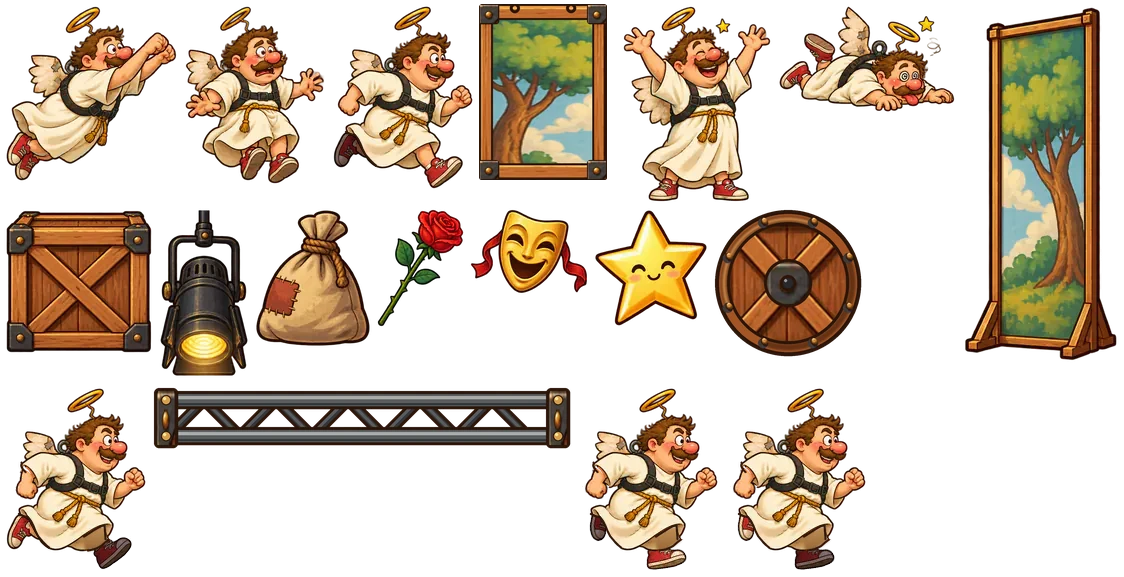
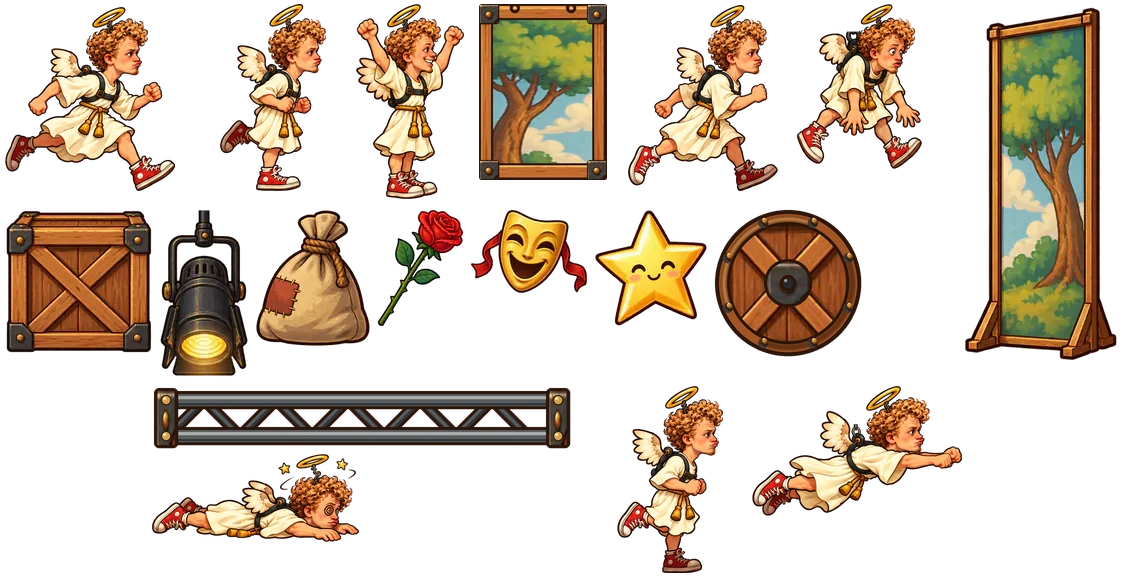
Turn the stage runner angel into Engel Logge

diff --git a/test/stage_runner_test.dart b/test/stage_runner_test.dart
@@ -103,8 +103,8 @@ int _serverMax(double seconds) =>
 /// be at their worst (a sandbag landed, a drop at its lowest).
 void _pilotStep(StageRunner game) {
   const f = StageRunner.floor, c = StageRunner.ceiling;
-  const hw = StageRunner.runnerWidth * .4 + .01;
-  const hh = StageRunner.runnerHeight * .42 + .015;
+  const hw = StageRunner.hitHalfWidth + .01;
+  const hh = StageRunner.hitHalfHeight + .015;
   const minY = c + StageRunner.runnerHeight / 2;
   const maxY = f - StageRunner.runnerHeight / 2;
   final x = game.runnerWorldX;
@@ -198,6 +198,28 @@ void main() {
         game.update(.02);
       }
       expect(game.vy >= 0 || game.over, isTrue);
+    });
+
+    test('the hitbox is a little smaller than the slim body', () {
+      // Wings, arms, head and shoes may graze an obstacle.
+      expect(StageRunner.hitHalfWidth * 2, lessThan(StageRunner.runnerWidth));
+      expect(StageRunner.hitHalfHeight * 2, lessThan(StageRunner.runnerHeight));
+      // A crate just ahead of the box, then just inside its front edge.
+      for (final (gap, crashes) in [(.002, false), (-.002, true)]) {
+        final game = StageRunner(random: Random(1))..update(1e-4);
+        game.obstacles.clear();
+        final left = game.runnerWorldX + StageRunner.hitHalfWidth + gap;
+        game.obstacles.add(
+          Obstacle()
+            ..kind = ObstacleKind.crate
+            ..left = left
+            ..width = .09
+            ..top = StageRunner.floor - .09
+            ..bottom = StageRunner.floor,
+        );
+        game.update(1e-4);
+        expect(game.over, crashes, reason: 'gap $gap');
+      }
     });
 
     test('doing nothing ends the run soon; long frames never skip', () {
@@ -916,10 +938,33 @@ void main() {
         return (brightX / bright, darkX / dark);
       }
 
+      // Mean position of the golden halo at the top of a pose.
+      (double, double) halo(RunnerSprite s) {
+        var sumX = 0, sumY = 0, count = 0;
+        for (var y = 0; y < 30; y++) {
+          for (var x = 0; x < s.width; x++) {
+            final i = at(s, x, y);
+            final r = bytes.getUint8(i), g = bytes.getUint8(i + 1);
+            final b = bytes.getUint8(i + 2), alpha = bytes.getUint8(i + 3);
+            if (alpha > 200 && r > 180 && g > 130 && b < 90) {
+              sumX += x;
+              sumY += y;
+              count++;
+            }
+          }
+        }
+        expect(count, greaterThan(50), reason: '$s has a halo');
+        return (sumX / count, sumY / count);
+      }
+
+      final (haloX, haloY) = halo(a);
       for (final pose in RunnerSprite.strides) {
-        // Same size and the same head, so the runner does not jump.
+        // Same size and the head in the same place, so the runner does not
+        // jump.
         expect((pose.width, pose.height), (a.width, a.height));
-        expect(difference(pose, 0, .4), lessThan(10), reason: '$pose');
+        final (x, y) = halo(pose);
+        expect((x - haloX).abs(), lessThan(3), reason: '$pose');
+        expect((y - haloY).abs(), lessThan(4), reason: '$pose');
       }
       expect(difference(RunnerSprite.runB, 2 / 3, 1), greaterThan(8));
       // The near shoe is in front in runA and behind in runB, the far shoe
@@ -930,6 +975,46 @@ void main() {
       expect(farB, greaterThan(nearB + 30));
       expect(nearA, greaterThan(nearB + 50));
       expect(farB, greaterThan(farA + 15));
+
+      // The wire meets the harness at the top of its ring, on the body.
+      for (final pose in [
+        ...RunnerSprite.strides,
+        RunnerSprite.fly,
+        RunnerSprite.dangle,
+        RunnerSprite.cheer,
+      ]) {
+        final h = pose.harness;
+        var opaque = 0;
+        for (var y = h.dy.round() - 3; y <= h.dy.round() + 3; y++) {
+          for (var x = h.dx.round() - 3; x <= h.dx.round() + 3; x++) {
+            if (bytes.getUint8(at(pose, x, y) + 3) > 128) opaque++;
+          }
+        }
+        expect(opaque, greaterThan(15), reason: '$pose');
+      }
+
+      // The hitbox, where the stage draws it on each pose: it lies on the
+      // body, and wings, arms, head and shoes stick out of it, so grazing
+      // them is no crash.
+      const px = RunnerSprite.stagePerPixel;
+      const hw = StageRunner.hitHalfWidth / px;
+      const hh = StageRunner.hitHalfHeight / px;
+      for (final pose in RunnerSprite.strides) {
+        // The stage puts the soles .006 below the bottom of the runner.
+        final cy = pose.height - (StageRunner.runnerHeight / 2 + .006) / px;
+        final cx = pose.width / 2;
+        var opaque = 0, count = 0;
+        for (var y = (cy - hh).round(); y < cy + hh; y++) {
+          for (var x = (cx - hw).round(); x < cx + hw; x++) {
+            if (bytes.getUint8(at(pose, x, y) + 3) > 128) opaque++;
+            count++;
+          }
+        }
+        expect(opaque / count, greaterThan(.65), reason: '$pose');
+        expect(2 * hw, lessThan(pose.width * .4), reason: '$pose');
+        expect(cy - hh, greaterThan(haloY + 30), reason: '$pose');
+        expect(cy + hh, lessThan(pose.height - 15), reason: '$pose');
+      }
     });
   });
 

diff --git a/lib/features/games/ui/stage_runner_art.dart b/lib/features/games/ui/stage_runner_art.dart
@@ -8,17 +8,18 @@ import '../domain/stage_runner.dart';
 
 /// Where each picture sits in `assets/games/stage_runner/atlas.webp`.
 enum RunnerSprite {
-  fly(4, 4, 175, 179),
-  dangle(183, 4, 144, 182),
+  // Engel Logge.
+  fly(752, 386, 210, 130),
+  dangle(797, 4, 125, 165),
   // The run, in this order: the near leg forward ([runA]), passing under
   // the body ([passA]), back while the far leg is forward ([runB]), and
   // the far leg passing ([passB]). The far leg is in the shade.
-  runA(331, 4, 144, 187),
-  passA(576, 386, 144, 187),
-  runB(4, 386, 144, 187),
-  passB(724, 386, 144, 187),
-  cheer(621, 4, 152, 200),
-  crash(777, 4, 180, 110),
+  runA(4, 4, 172, 187),
+  passA(180, 4, 172, 187),
+  runB(621, 4, 172, 187),
+  passB(576, 386, 172, 187),
+  cheer(356, 4, 108, 195),
+  crash(152, 454, 207, 88),
   crate(4, 208, 150, 147),
   lamp(158, 208, 92, 170),
   sandbag(254, 208, 118, 140),
@@ -34,6 +35,9 @@ enum RunnerSprite {
   final double x, y, width, height;
   ui.Rect get rect => ui.Rect.fromLTWH(x, y, width, height);
 
+  /// Stage heights per pixel of the runner's poses, all drawn alike.
+  static const stagePerPixel = .155 / 200;
+
   /// The poses of the run in order; a whole cycle covers two ninths of a
   /// unit, so the legs keep pace with the floor.
   static const strides = [runA, passA, runB, passB];
@@ -41,6 +45,16 @@ enum RunnerSprite {
   /// The pose of the run after running [distance].
   static RunnerSprite stride(double distance) =>
       strides[(distance * 18).floor() % strides.length];
+
+  /// Where the flying wire meets the harness, in pixels of the picture;
+  /// only for the poses of the runner.
+  ui.Offset get harness => switch (this) {
+    fly => const ui.Offset(106, 42),
+    dangle => const ui.Offset(54, 28),
+    cheer => const ui.Offset(44, 68),
+    runA => const ui.Offset(83, 66),
+    _ => const ui.Offset(91, 66),
+  };
 
   static RunnerSprite of(PickupKind kind) => switch (kind) {
     PickupKind.rose => rose,

diff --git a/lib/features/games/ui/stage_runner_screen.dart b/lib/features/games/ui/stage_runner_screen.dart
@@ -274,7 +274,7 @@ class _StageRunnerScreenState extends State<StageRunnerScreen>
         'Bühnenlauf',
         eyebrow: 'Hinter der Bühne',
         subtitle:
-            'Engel Ewald hängt zum ersten Mal am Flugseil – und die Technik hat die Bühne nicht aufgeräumt. Vorbei an Kisten, Kulissen, Scheinwerfern und Sandsäcken, immer schneller, bis der Vorhang fällt.',
+            'Engel Logge hängt zum ersten Mal am Flugseil – und die Technik hat die Bühne nicht aufgeräumt. Vorbei an Kisten, Kulissen, Scheinwerfern und Sandsäcken, immer schneller, bis der Vorhang fällt.',
       ),
       if (_art case final art?)
         Center(
@@ -1203,7 +1203,7 @@ class _StagePainter extends CustomPainter {
     }
   }
 
-  /// Engel Ewald: runs on the floor, flies with arms forward, dangles when
+  /// Engel Logge: runs on the floor, flies with arms forward, dangles when
   /// sinking, cheers at a pickup and crashes comically.
   void _runner(
     Canvas canvas,
@@ -1237,12 +1237,14 @@ class _StagePainter extends CustomPainter {
       sprite = g.vy < -.05 ? RunnerSprite.fly : RunnerSprite.dangle;
       angle = (g.vy * .12).clamp(-.2, .2).toDouble();
     }
-    // Same scale for all poses: the tallest frame is .155 stage heights.
-    final scale = .155 * s / 200;
+    final scale = RunnerSprite.stagePerPixel * s;
     final width = sprite.width * scale, height = sprite.height * scale;
+    // Flying flat, the body lies around the middle of the hitbox; every
+    // other pose stands on its feet.
+    if (sprite == RunnerSprite.fly) feet = g.y + height / s / 2;
     final cx = StageRunner.runnerX * s, bottom = feet * s;
     final dst = Rect.fromLTWH(cx - width / 2, bottom - height, width, height);
-    final harness = Offset(cx - width * .08, dst.top + height * .3);
+    final harness = dst.topLeft + sprite.harness * scale;
     if (!g.over) {
       canvas.drawLine(Offset(harness.dx, 0), harness, _ropePaint);
     } else if (wireTop > 0) {

diff --git a/lib/features/games/domain/stage_runner.dart b/lib/features/games/domain/stage_runner.dart
@@ -107,7 +107,13 @@ class StageRunner {
 
   /// Visible course width in stage heights; the runner stays at [runnerX].
   static const viewWidth = 1.6, runnerX = .4;
-  static const runnerWidth = .07, runnerHeight = .11;
+
+  /// The runner's body without wings, arms and halo.
+  static const runnerWidth = .06, runnerHeight = .11;
+
+  /// Half the hitbox: a bit smaller than the body, which feels fair.
+  static const hitHalfWidth = runnerWidth * .4;
+  static const hitHalfHeight = runnerHeight * .42;
   static const ceiling = .07, floor = .86;
 
   /// Vertical acceleration and speed limits (stage heights per second).
@@ -239,8 +245,7 @@ class StageRunner {
         default:
       }
     }
-    // A slightly smaller hitbox feels fair.
-    const hw = runnerWidth * .4, hh = runnerHeight * .42;
+    const hw = hitHalfWidth, hh = hitHalfHeight;
     if (!invincible) {
       for (final o in obstacles) {
         if (o.left < x + hw &&

diff --git a/lib/features/games/ui/stage_runner_fx.dart b/lib/features/games/ui/stage_runner_fx.dart
@@ -239,7 +239,8 @@ String curtainLine(ObstacleKind? hitBy, Random random) {
     'Toi, toi, toi fürs nächste Mal!',
     'Das war so nicht geprobt!',
     'Abgang – leider nicht nach Drehbuch.',
-    'Engel Ewald braucht eine Pause.',
+    'Engel Logge braucht eine Pause.',
+    'Die Locken sitzen noch. Alles andere nicht.',
     'Ein Heiligenschein ist kein Helm.',
     'Der Inspizient schlägt die Hände über dem Kopf zusammen.',
     'Kein Beinbruch – nur ein Flügelbruch.',
